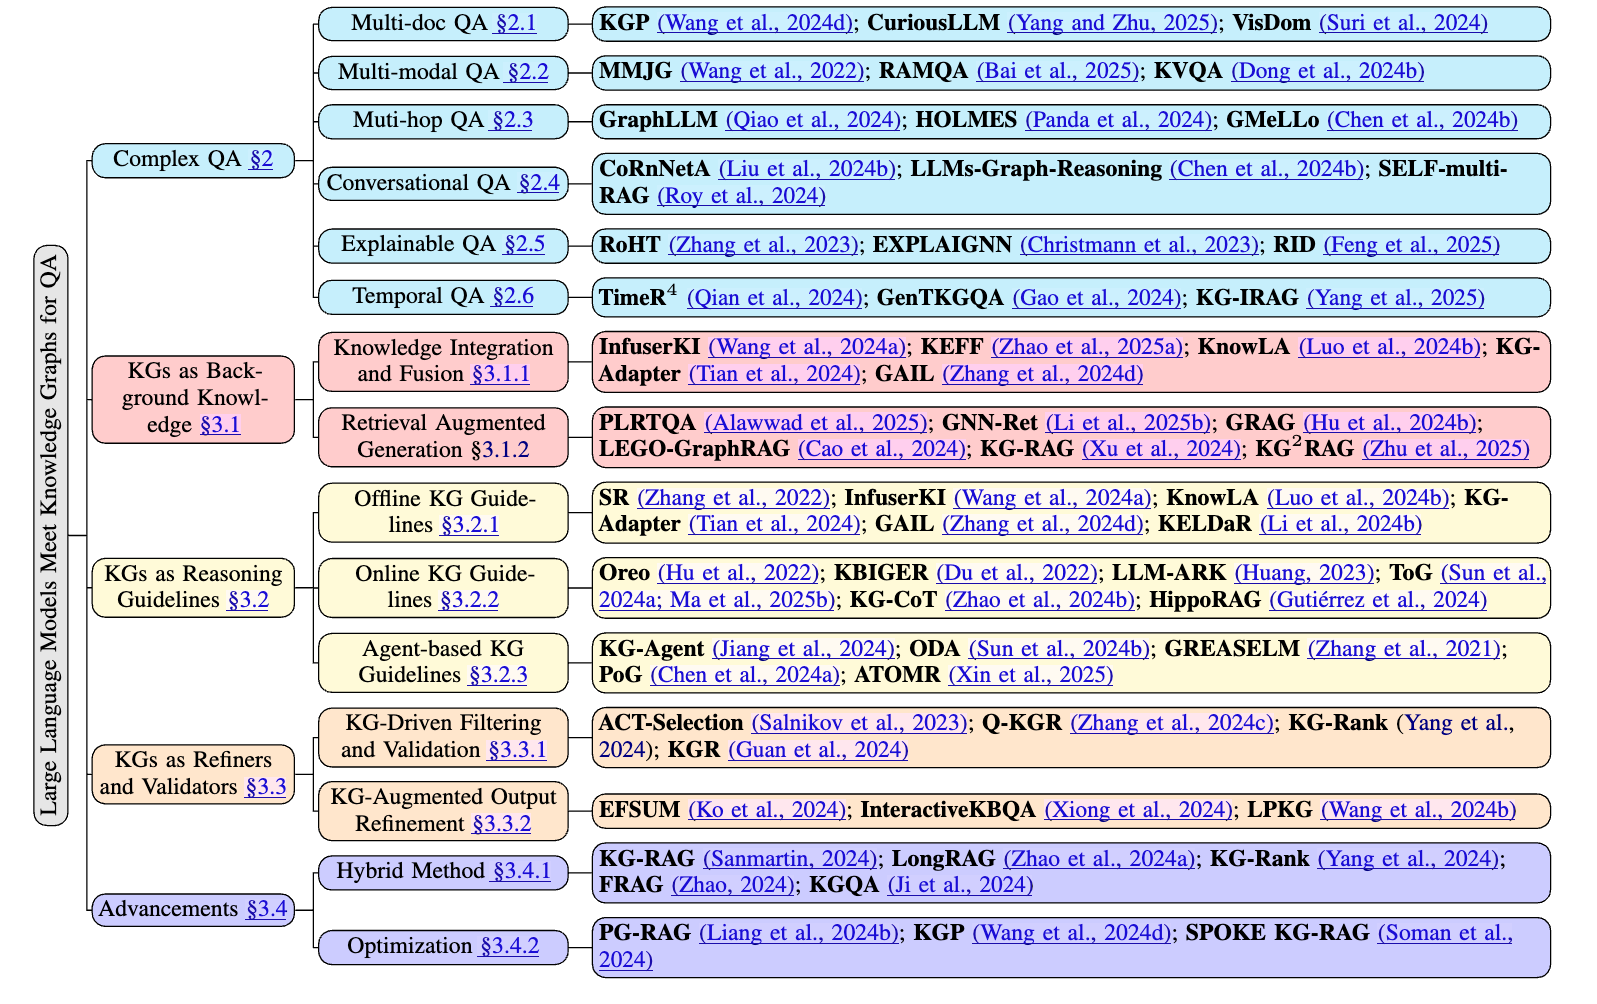
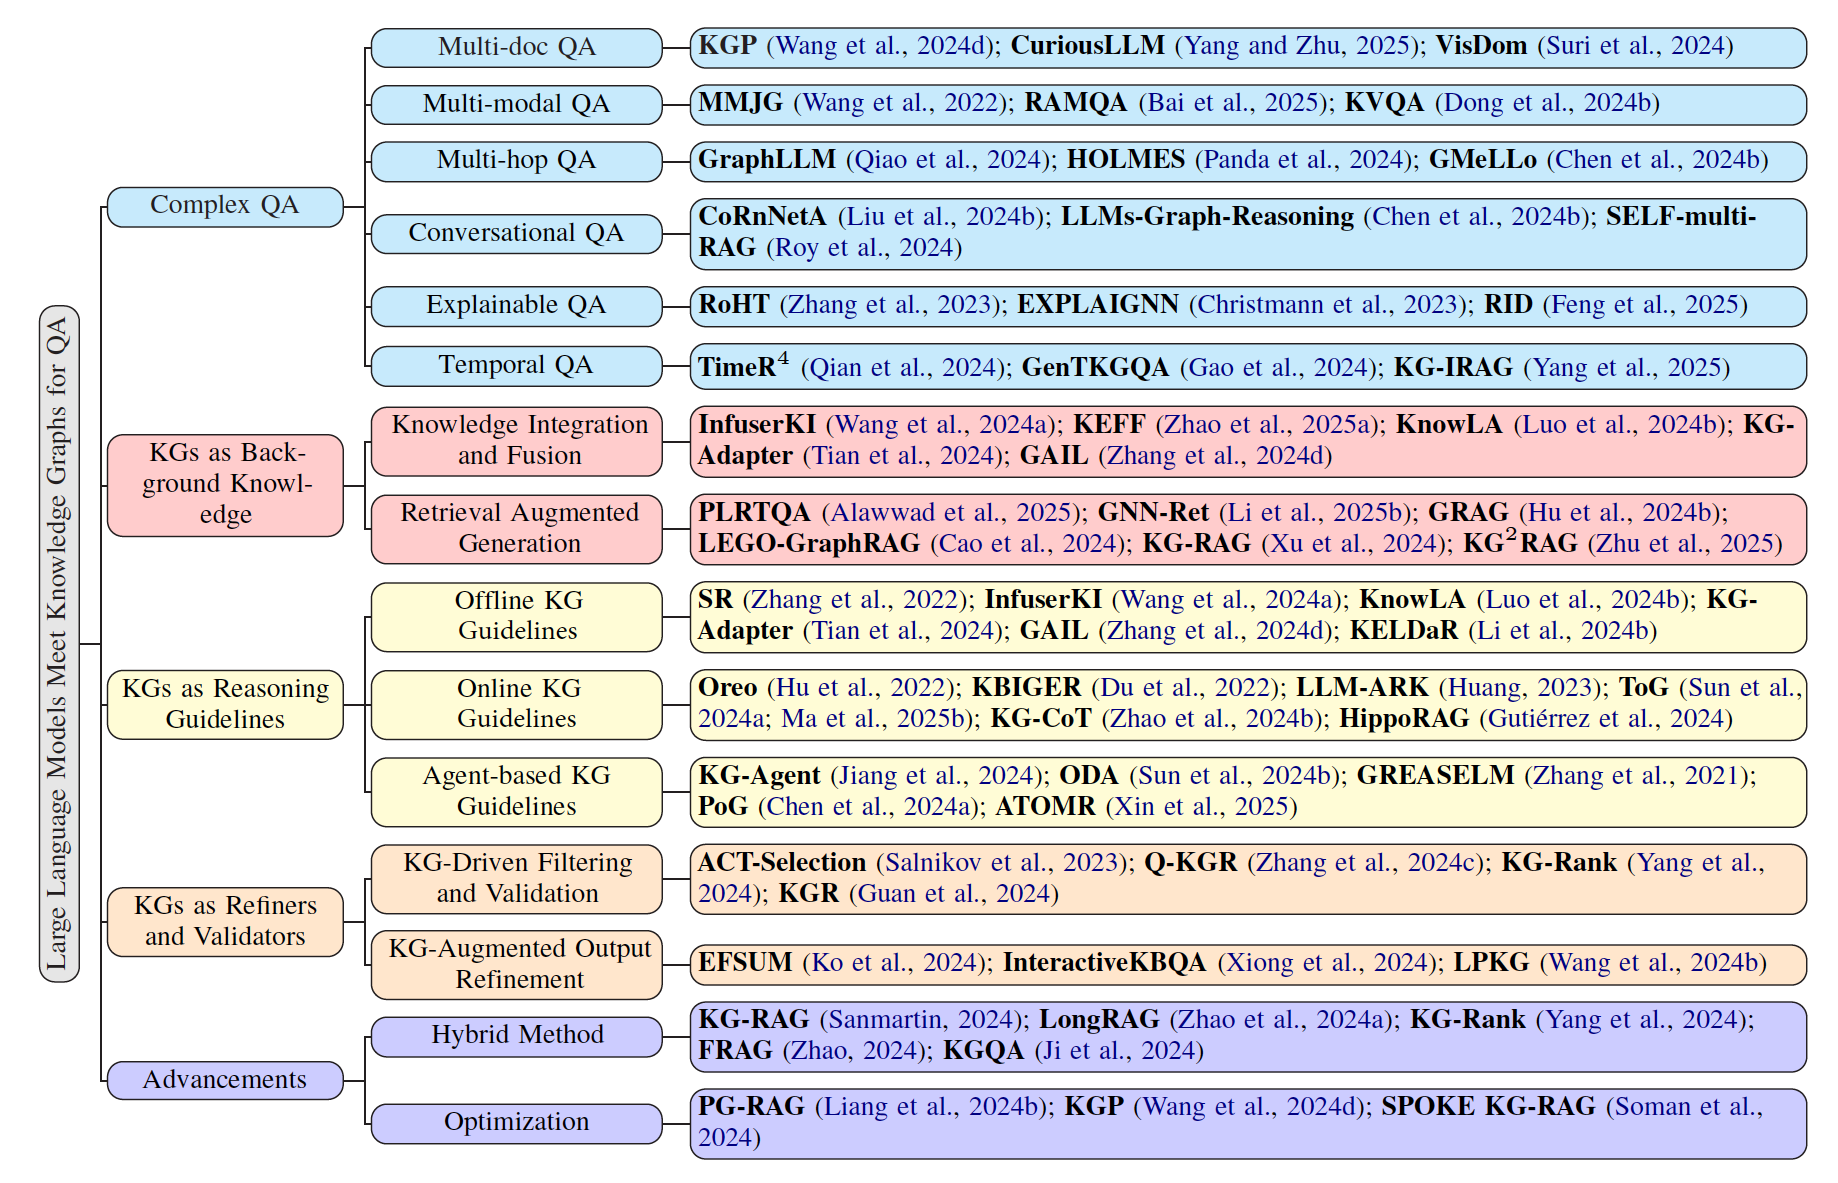
update

diff --git a/survey-emnlp25/index.html b/survey-emnlp25/index.html
@@ -318,7 +318,7 @@
                     <span class="icon">
                       <i class="fab fa-github"></i>
                     </span>
-                    <span>Code</span>
+                    <span>Resources</span>
                   </a>
                 </span>
 
@@ -498,8 +498,6 @@ how the LLM+KG approaches with different roles of KG can address the challenges 
         <div class="content">
           <p>
             This page was built using the <a href="https://github.com/eliahuhorwitz/Academic-project-page-template" target="_blank">Academic Project Page Template</a> which was adopted from the <a href="https://nerfies.github.io" target="_blank">Nerfies</a> project page.
-            <br> This website is licensed under a <a rel="license"  href="http://creativecommons.org/licenses/by-sa/4.0/" target="_blank">Creative
-            Commons Attribution-ShareAlike 4.0 International License</a>.
           </p>
 
         </div>
